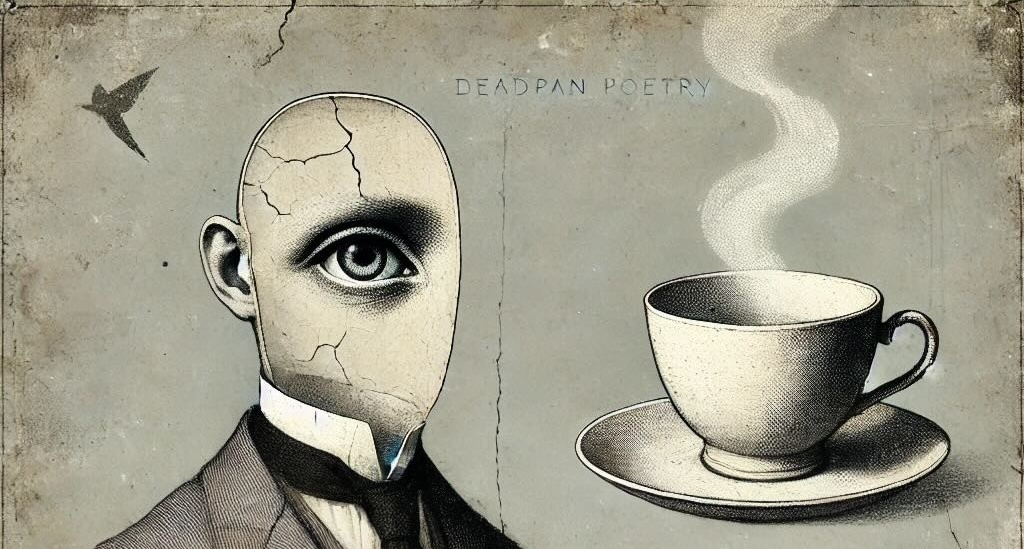
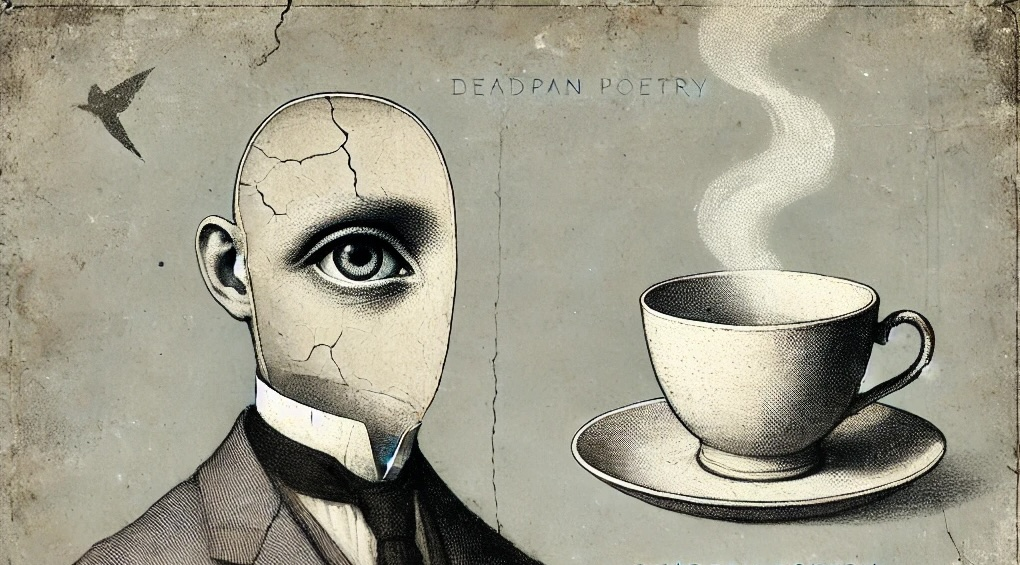
Header img tweak

diff --git a/public/index.html b/public/index.html
@@ -83,7 +83,7 @@
   
   
     <div class="header-image">
-      <img src="/images/header.png" alt="Header Image" style="max-width:100%;">
+      <img src="/images/header.jpg" alt="Header Image" style="max-width:100%;">
     </div>
   
 
